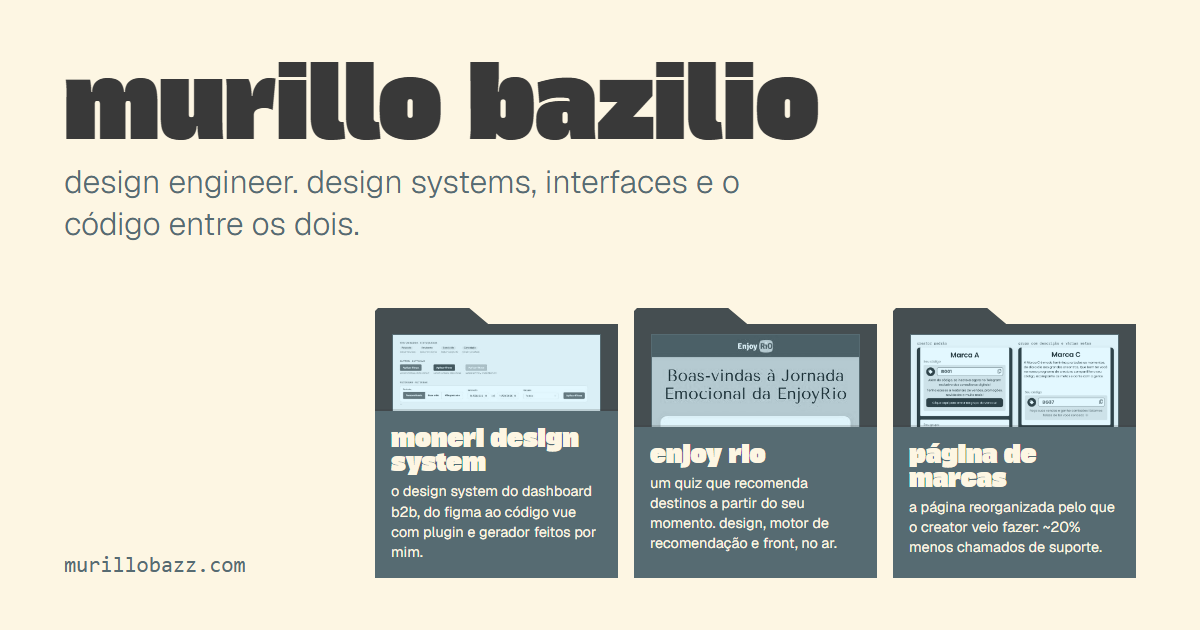
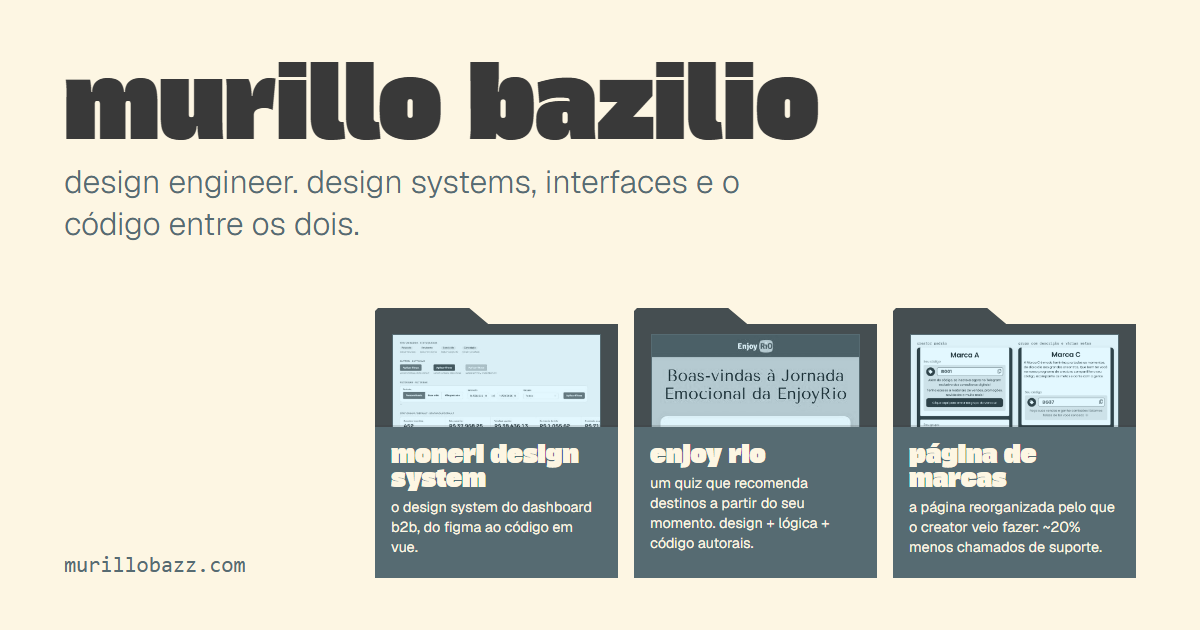
fix: shorter case summaries and onboarding period
Home and share image summaries trimmed; onboarding numbers cover Sep 2024 to Sep 2025 and spell out what the 74% means.

Changed region(s): [[0.3083, 0.6333, 0.5242, 0.8746], [0.5242, 0.8143, 0.7092, 0.8746]]

diff --git a/src/utils/translations.js b/src/utils/translations.js
@@ -18,7 +18,7 @@ const t = {
     workItems: [
       '**design system for the b2b dashboard**: from legacy code to figma and back into code, with a plugin and component generator I built;',
       '**ux/ui for new features**, from idea to deploy, on a creators platform with 100k+ users;',
-      '**self-service onboarding for new brands**: anyone on an e-commerce platform with a native moneri integration gets in on their own. from sep 2024 to feb 2026, **96% of the stores** from a partner platform joined with no help, where less than 10% of the old waitlist used to make it in, and since the basic plan went free, **74%** of those who start signing up reach the dashboard;',
+      '**self-service onboarding for new brands**: anyone on an e-commerce platform with a native moneri integration gets in on their own. from sep 2024 to sep 2025, **96% of the stores** from a partner platform joined with no help, where less than 10% of the old waitlist used to make it in, and since the basic plan went free, **74%** of those who start signing up reach the dashboard and start using the platform on their own;',
       '**the bridge between design and dev**: what gets designed ships the same;',
       '**ai in the daily workflow**: from everyday code to tier-1 support agents (n8n + claude api);',
       '**stack**: vue, nuxt, react, javascript, figma (and whatever else it takes).',
@@ -104,7 +104,7 @@ const t = {
     workItems: [
       '**design system do dashboard b2b**: do código legado ao figma e de volta pro código, com plugin e gerador de componentes feitos por mim;',
       '**ux/ui de features novas**, da ideia ao deploy, numa plataforma de creators com mais de 100 mil usuários;',
-      '**onboarding self-service de novas marcas**: quem usa um e-commerce com integração nativa com a moneri entra sozinho na plataforma. de set/2024 a fev/2026, **96% das lojas** de uma plataforma parceira entraram sem ajuda, quando antes menos de 10% da lista de espera conseguia entrar, e desde que o plano básico ficou gratuito, **74%** de quem começa o cadastro chega ao dashboard;',
+      '**onboarding self-service de novas marcas**: quem usa um e-commerce com integração nativa com a moneri entra sozinho na plataforma. de set/2024 a set/2025, **96% das lojas** de uma plataforma parceira entraram sem ajuda, quando antes menos de 10% da lista de espera conseguia entrar, e desde que o plano básico ficou gratuito, **74%** de quem começa o cadastro chega ao dashboard e começa a usar a plataforma de forma independente;',
       '**a ponte entre design e dev**: o que foi desenhado chega no código igual;',
       '**ia no fluxo de trabalho**: do código do dia a dia a agentes de suporte n1 (n8n + claude api);',
       '**stack**: vue, nuxt, react, javascript, figma (e o que mais precisar).',

diff --git a/src/utils/cases.js b/src/utils/cases.js
@@ -11,7 +11,7 @@ const pt = [
     name: 'moneri design system',
     title: 'Um design system que começa no código em produção e volta para ele',
     subtitle: 'design system do dashboard b2b da moneri: do legado ao figma e de volta pro código',
-    summary: 'o design system do dashboard b2b, do figma ao código vue com plugin e gerador feitos por mim.',
+    summary: 'o design system do dashboard b2b, do figma ao código em vue.',
     status: 'em andamento',
     tags: ['design system', 'plugin do figma', 'vue'],
     hero: {
@@ -157,7 +157,7 @@ const pt = [
     name: 'enjoy rio',
     title: 'Transformando "como você se sente" em "para onde viajar"',
     subtitle: 'um quiz pra enjoy rio que recomenda destinos no estado do rio a partir do seu momento',
-    summary: 'um quiz que recomenda destinos a partir do seu momento. design, motor de recomendação e front, no ar.',
+    summary: 'um quiz que recomenda destinos a partir do seu momento. design + lógica + código autorais.',
     status: null,
     tags: ['quiz', 'motor de recomendação', 'react'],
     link: { label: 'fazer o quiz', href: QUIZ_URL },
@@ -315,7 +315,7 @@ const en = [
     name: 'moneri design system',
     title: 'A design system that starts from production code and syncs back into it',
     subtitle: "moneri's b2b dashboard design system: from legacy code to figma and back into code",
-    summary: 'the b2b dashboard design system, from figma to vue code with a plugin and generator I built.',
+    summary: 'the b2b dashboard design system, from figma to vue code.',
     status: 'in progress',
     tags: ['design system', 'figma plugin', 'vue'],
     hero: {
@@ -461,7 +461,7 @@ const en = [
     name: 'enjoy rio',
     title: 'Turning how you feel into where to travel',
     subtitle: 'a quiz for enjoy rio that recommends destinations in rio de janeiro state based on how you feel right now',
-    summary: 'a quiz that recommends destinations based on how you feel. design, recommendation engine and front end, live.',
+    summary: 'a quiz that recommends destinations based on how you feel. design + logic + code, all my own.',
     status: null,
     tags: ['quiz', 'recommendation engine', 'react'],
     link: { label: 'take the quiz (in portuguese)', href: QUIZ_URL },
